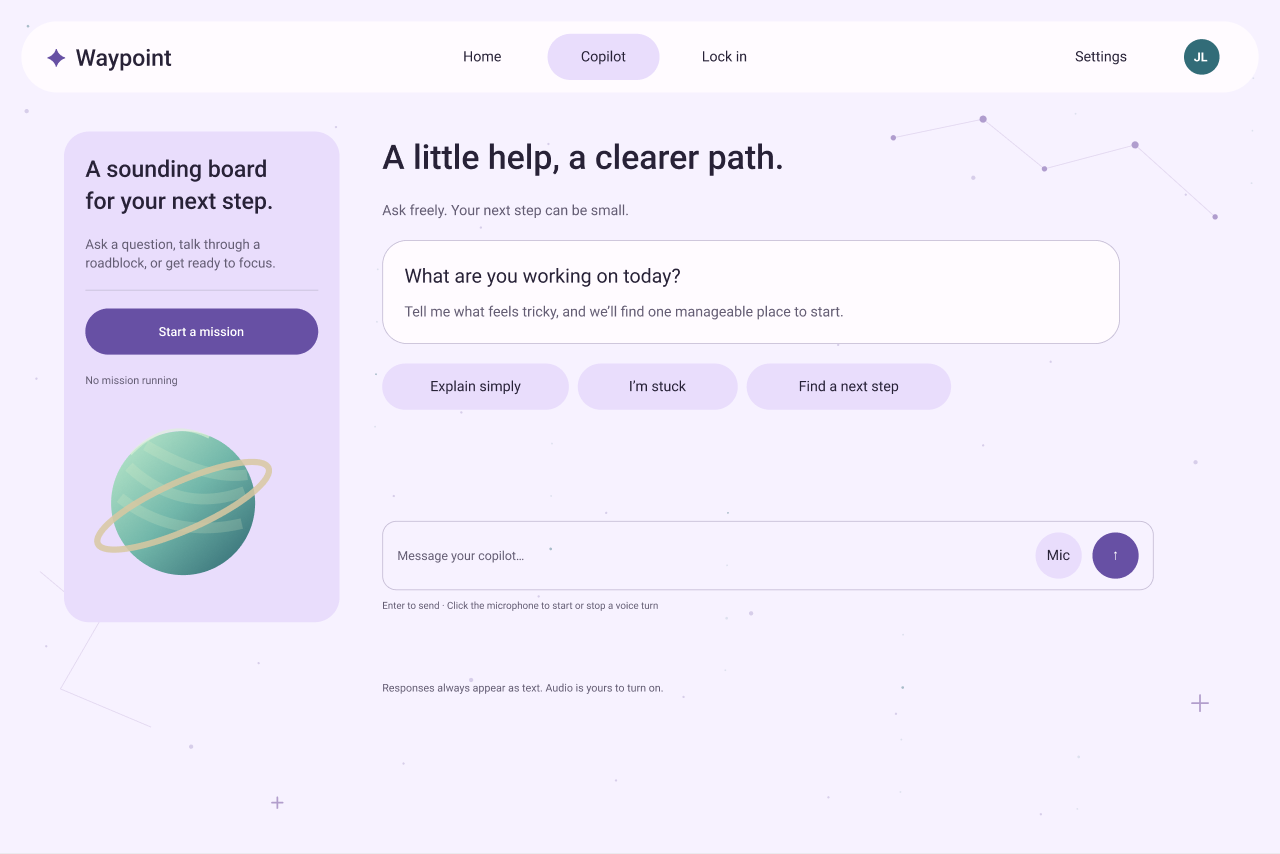
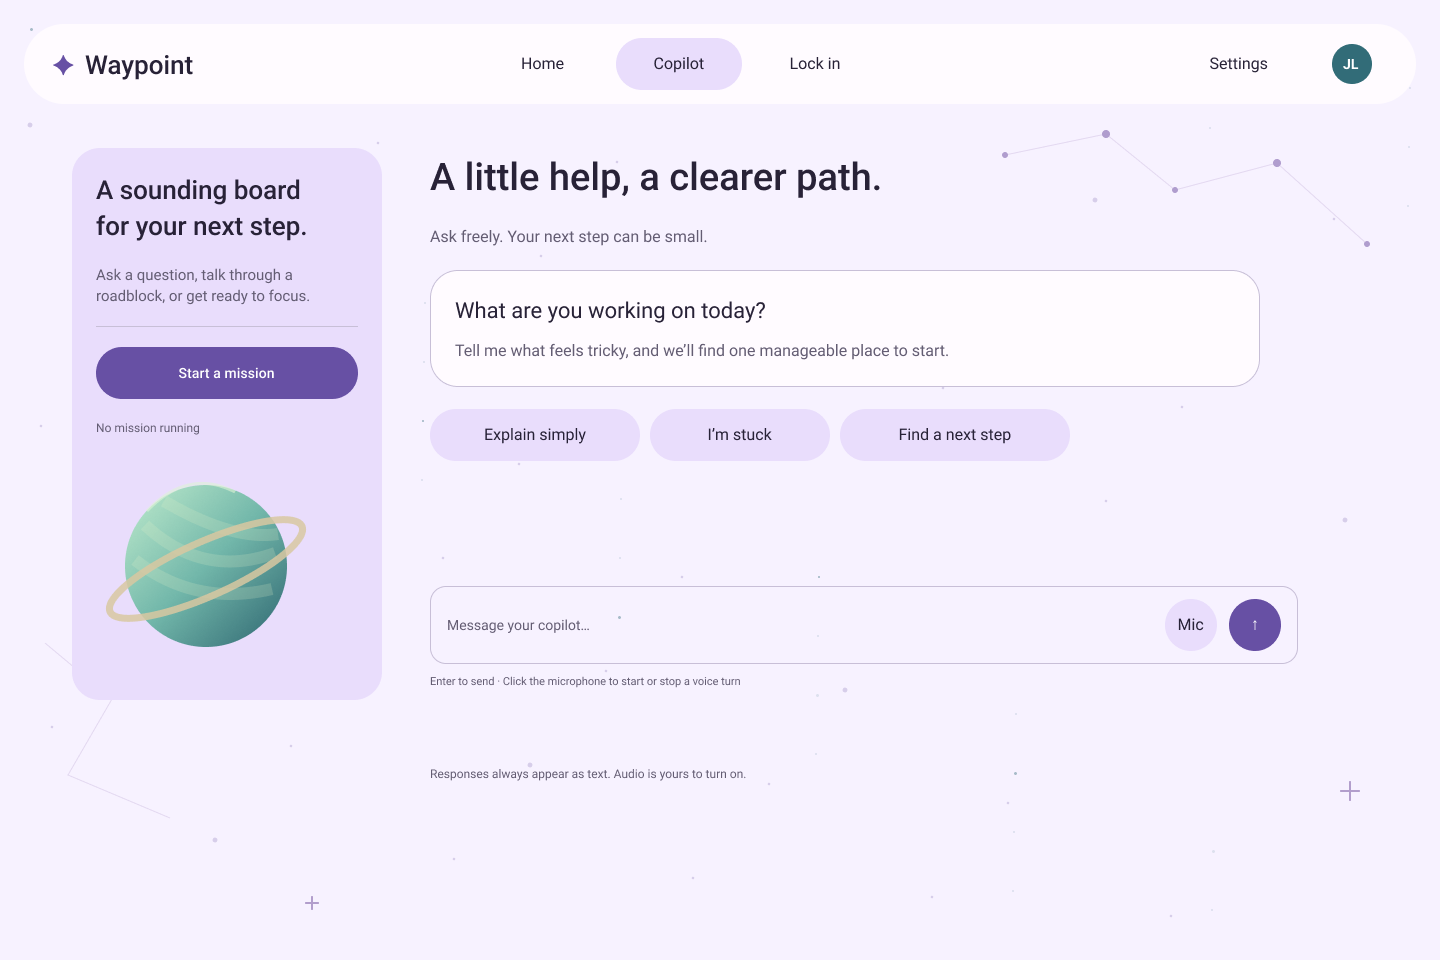
Sync Figma patrol fixes and document Waypoint API coach routing.
Update home/copilot layout refs, expand backend docs, and keep local secrets example aligned with the API base URL.

diff --git a/README.md b/README.md
@@ -163,7 +163,7 @@ npm run app:dev
 - Run `npm test` (Node 26+) for Markdown safety and chat interaction checks.
 - If Calendar works but Drive does not, enable **Google Drive API** in the same Google Cloud project as the desktop OAuth client. Adding consent-screen scopes alone does not enable the API. Wait a few minutes after enabling it; reconnect Google if the error instead says permissions are missing.
 - Drive chat reads excerpts from Google Docs, Slides, Sheets (first sheet only), and text files. Other formats currently provide filenames and metadata only. Ask with a specific title or topic for files outside the recent listing.
-- Lock-in is screen-first: Gemini coaches from periodic screenshots against your goals. Presage runs separate ~20s webcam clips for stress / HR / RR when Camera + `presage_api_key` + `ffmpeg` are available. Lock-in still starts if the camera is denied; wellness just stays offline.
+- Lock-in is screen-first: local OS/OCR/coach signals first, Gemini as fallback. Presage runs separate ~20s webcam clips for stress / HR / RR when Camera + `presage_api_key` are available (bundled AVFoundation encoder; ffmpeg optional). Lock-in still starts if the camera is denied; wellness just stays offline.
 - Coach lines pop up in an always-on-top overlay and are spoken with a local macOS `say` stand-in (`waypoint-voice` crate). Swap that crate’s TTS/STT for Grok Voice later. `voice_listen_test` records a short mic clip through the stub STT pipeline.
 - Keep `src-tauri/Info.plist` in the build: it declares why Waypoint needs camera access. Without `NSCameraUsageDescription`, macOS terminates the app when lock-in touches the camera. Reopen the rebuilt `.app` after updating; allow Camera and Screen Recording in System Settings.
 - Rebuild after any change to `src-tauri/secrets.toml` (`npm run app:build` again).

diff --git a/.cursor/figma-compliance-log.md b/.cursor/figma-compliance-log.md
@@ -125,3 +125,9 @@ Verifier appends pass/fail notes after each 10m check.
 - pass: fp-home-copilot-cta-arrow, fp-home-best-extraneous-moon, fp-copilot-responses-footnote
 - fail: (none)
 - notes: Live 5:166 text chars are “Open copilot  →” (instance name ↗ stale) — tiny proof restored after 5873ecf over-corrected to ↗; live 5:154 PB cream-only (no moon) + dest moon kept; live 5:256 in composer + 5:257 page foot via `.copilot-responses-foot`. Preserved Settings five-tab, ✦ Launch, Pause/End, LTR orbit, silent_mode true. No push.
+
+## check: 2026-10-03T16:25:30-04:00
+- reviewed: fp-home-footnote-rail, fp-home-copilot-shortcut-row; spot escalate:scrutinous (fp-session-at-launch-chrome, fp-welcome-signin-form, fp-end-confirm-modal-spec)
+- pass: fp-home-footnote-rail, fp-home-copilot-shortcut-row
+- fail: (none)
+- notes: Live 2:34 metadata — 5:169 at x=969/y=750 + satellite 22:1311 under PB rail; 5:164 horizontal Talk-it-through + CTA. HEAD 43e68a5 `.mc-home-bottom` grid col2/row2 + `.mc-home-copilot-shortcut` row match. Scrutinous opens still accurate (next-step always-on / Google-only sign-in / window.confirm) — no rewrite. Preserved Settings five-tab, ✦ Launch, Pause/End, LTR orbit, silent_mode true, #app padding:0. No code edits; no push.

diff --git a/docs/BACKEND.md b/docs/BACKEND.md
@@ -38,6 +38,30 @@ local_vision_model = "moondream"
    - `POST /v1/coach/api/generate`  
    with `Authorization: Bearer <coach_api_token>`. The API proxies to Ollama.
 
+## Friend / teammate clone (both repos)
+
+```bash
+cd ~
+git clone https://github.com/legitminh/BigRedHacksProject.git
+git clone https://github.com/legitminh/BigRedHacksProjectBackend.git
+cd BigRedHacksProject
+git checkout cursor/waypoint-rust-study-nav-bd7b
+npm install
+cp src-tauri/secrets.example.toml src-tauri/secrets.toml
+# fill gemini + coach_api_token (same as backend COACH_API_TOKEN)
+
+cd ~/BigRedHacksProjectBackend
+npm install
+cp .env.example .env
+# fill SESSION_SECRET, COACH_API_TOKEN, OLLAMA_BASE_URL, Google web client…
+npm run dev   # :8787
+
+cd ~/BigRedHacksProject
+npm run app:dev
+```
+
+Shipped `Waypoint.app` users do **not** need local Rust, Node, Ollama, or ffmpeg — only the app, macOS permissions, and network to Gemini + your API host.
+
 ## Open both in Cursor
 
 ```bash
